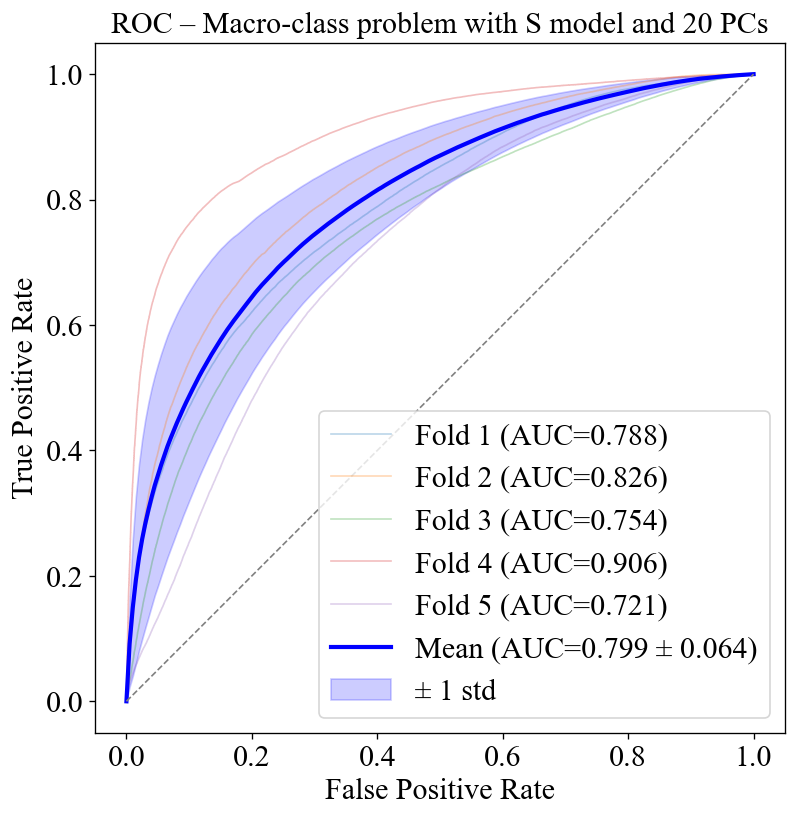
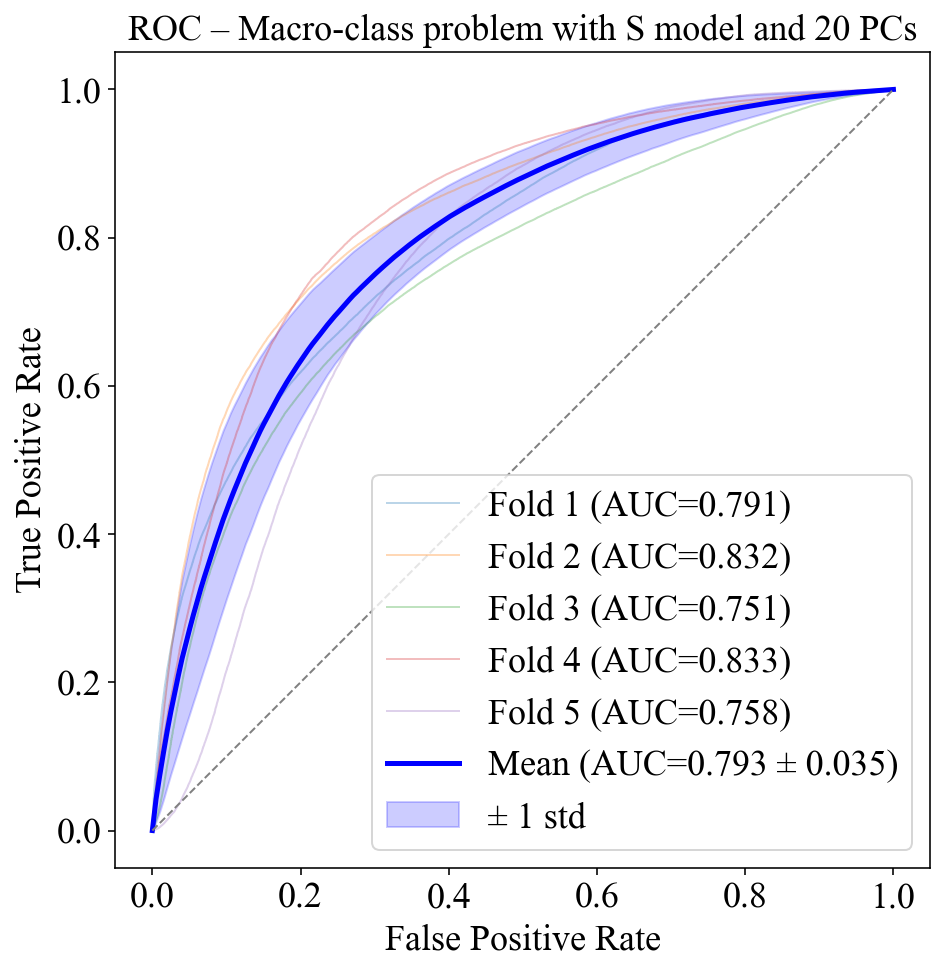
Ch4, Ch5: excluded necrosis from dataset and reviewed the results

diff --git a/Chapters/Ch_5.tex b/Chapters/Ch_5.tex
@@ -101,13 +101,13 @@ The final ANN models were trained for the two binary tasks reported in \Cref{tab
         \hline
         \textbf{Experiment} & \textbf{Positive class} & \textbf{Negative class} \\
         \hline
-        \begin{tabular}[t]{@{}c@{}}Tumour-related class\\vs\\non-tumour\end{tabular} & \begin{tabular}[t]{@{}c@{}}Tumour (2)\\Tumour with necrosis (20)\end{tabular} & \begin{tabular}[t]{@{}c@{}}Valid non-tumour classes\\(0, 3, 4, 5, 6, 8, 10, 19, 23)\end{tabular} \\
+        \begin{tabular}[t]{@{}c@{}}Tumour-related class\\vs\\non-tumour\end{tabular} & \begin{tabular}[t]{@{}c@{}}Tumour (2)\\Tumour with necrosis (20)\end{tabular} & \begin{tabular}[t]{@{}c@{}}Valid non-tumour classes\\(3, 4, 5, 6, 8, 10, 19, 23)\end{tabular} \\
         \hline
         \begin{tabular}[t]{@{}c@{}}Tumour-related class\\vs\\stroma\end{tabular} & \begin{tabular}[t]{@{}c@{}}Tumour (2)\\Tumour with necrosis (20)\end{tabular} & Tumour stroma (6) \\
         \hline
     \end{tabularx}
     \renewcommand{\arraystretch}{1}
-    \caption{Binary classification experiments evaluated in the final analysis.}
+    \caption{Binary classification experiments evaluated in the final analysis. See \cref{tab:label-distribution} for label correspondences.}
     \label{tab:final_binary_experiments}
 \end{table}
 
@@ -178,7 +178,7 @@ The decision threshold used to convert the predicted probability into a binary l
 
 The configurations chosen for the two approaches, listed in \cref{tab:selected_hyperparameters}, were further analyzed to assess their effectiveness.
 
-The confusion matrices and ROC curves, explained in \cref{sec:evaluation_metrics}, showed good results for both problems. The macro-class approach performed slightly worse than the single-class one, especially in non-tumoral classification (true negative rates equaled 0.71 and 0.75 respectively). This is a direct consequence of the internal heterogeneity of the healthy class. The ROC curves showed symmetrical behavior with respect to the TPR and FNR, with high variability depending on the validation fold composition. Mean AUC across 5 folds achieved scores of $\text{AUC} = 0.799\pm0.072$, relative standard deviation $\sigma_{relative} = 9\%$, for the macro-class problem (\cref{fig:results_S20_macroclass}), and $\text{AUC} = 0.836\pm0.043$, $\sigma_{relative} = 5.1\%$, for the single-class problem (\cref{fig:results_S10_singleclass}). The difference in mean AUC and standard deviation once again indicates that, on average, the macro-class approach is more difficult and less consistent than the single-class one.
+The confusion matrices and ROC curves, explained in \cref{sec:evaluation_metrics}, showed good results for both problems. The macro-class approach performed slightly worse than the single-class one, especially in non-tumoral classification, with true negative rates equaled 0.71 and 0.75 respectively, while tumoral recall achieved 0.74 in the first problem and 0.76 for the second. The imbalance in TNR is a direct consequence of the internal heterogeneity of the healthy class. The ROC curves showed symmetrical behavior with respect to the TPR and FNR, with high variability depending on the validation fold composition. Mean AUC across 5 folds achieved scores of $\text{AUC} = 0.793\pm0.035$, relative standard deviation $\sigma_{relative} = 4.4\%$, for the macro-class problem (\cref{fig:results_S20_macroclass}), and $\text{AUC} = 0.836\pm0.043$, $\sigma_{relative} = 5.1\%$, for the single-class problem (\cref{fig:results_S10_singleclass}). The difference in mean AUC once again indicates that, on average, the macro-class approach is more difficult than the single-class one.
 
 
 \begin{figure}[H]
@@ -256,12 +256,10 @@ For a more critical analysis, it is important to understand whether errors are e
 
 \Cref{fig:sample_f1_comparison} shows the \textit{F1-score}, which combines \textit{precision} and \textit{recall}, calculated by partitioning the test set pixels by sample and comparing model predictions with the actual labels for each group. A high \textit{F1} means that the model recognises the \textit{tumour} class well within the same sample. On the contrary, a low value indicates that the specific sample is difficult and the prediction contains many \textit{false positives}, \textit{false negatives}, or both.
 
-First of all, the result of this comparison confirms what has already been observed in \Cref{sec:aggregated_classification_results}, namely that the macro-class problem is more complicated and unstable because it introduces greater intra-class heterogeneity, with an average \textit{F1} per sample of \(0.704\), compared with \(0.792\) for the single-class problem.
+First of all, the result of this comparison confirms what has already been observed in \Cref{sec:aggregated_classification_results}, namely that the macro-class problem is more complicated and unstable because it introduces greater intra-class heterogeneity, with an average \textit{F1} per sample of \(0.713\), compared with \(0.792\) for the single-class problem.
 Some of the most difficult classified samples in the \textit{tumour} vs \textit{healthy} experiment improve in the \textit{tumour} vs \textit{stroma} problem. The most obvious case is \(3535\_019\) which goes from \textit{F1} approximately \(0.43\) to about \(0.77\) between the two experiments. This supports the thesis that the difficulty in predictions is closely linked to the definition of the negative class.
 
-VALORI DA CONTROLLARE
-
-Other cases, instead, show critical trends in both experiments, as in \(3439\_009\). The sample-specific difficulty could be related to spectral differences typical of an individual patient or specimen. In these cases, the model fails to generalise adequately due to the high biological variance found.
+Other cases, instead, show poor performace in both experiments, as in \(3439\_009\). The sample-specific difficulty could be related to spectral differences typical of an individual patient or specimen. In these cases, the model fails to generalise adequately due to the high biological variance found.
 Furthermore, it is not excluded that, in some cases, a very poor performance on a sample may depend on the quality of the annotations.
 
 
@@ -292,6 +290,7 @@ The comparison of raw and smoothed results for both binary problems, presented i
 \definecolor{pastelblue3}{RGB}{211,228,244}
 \definecolor{pastelblue4}{RGB}{190,215,237}
 \definecolor{pastelblue5}{RGB}{168,201,229}
+\definecolor{pastelblue6}{RGB}{145,186,220}
 
 \begin{table}[htbp]
     \centering
@@ -303,24 +302,28 @@ The comparison of raw and smoothed results for both binary problems, presented i
         Kernel size & \textit{AUC} & \textit{TPR} & \textit{TNR} & \textit{AUC} & \textit{TPR} & \textit{TNR} \\
         \hline
         No smoothing
-        & \cellcolor{pastelblue1}0.799 & \cellcolor{pastelblue1}0.738 & \cellcolor{pastelblue1}0.712
+        & \cellcolor{pastelblue1}0.793 & \cellcolor{pastelblue1}0.741 & \cellcolor{pastelblue1}0.711
         & \cellcolor{pastelblue1}0.836 & \cellcolor{pastelblue1}0.761 & \cellcolor{pastelblue1}0.749 \\
 
         \(3 \times 3\)
-        & \cellcolor{pastelblue2}0.851 & \cellcolor{pastelblue2}0.789 & \cellcolor{pastelblue3}0.758
+        & \cellcolor{pastelblue2}0.848 & \cellcolor{pastelblue2}0.794 & \cellcolor{pastelblue3}0.756
         & \cellcolor{pastelblue2}0.892 & \cellcolor{pastelblue2}0.811 & \cellcolor{pastelblue4}0.787 \\
 
         \(5 \times 5\)
-        & \cellcolor{pastelblue3}0.862 & \cellcolor{pastelblue3}0.797 & \cellcolor{pastelblue5}0.770
-        & \cellcolor{pastelblue4}0.904 & \cellcolor{pastelblue3}0.822 & \cellcolor{pastelblue5}0.795 \\
+        & \cellcolor{pastelblue3}0.859 & \cellcolor{pastelblue3}0.803 & \cellcolor{pastelblue5}0.768
+        & \cellcolor{pastelblue4}0.904 & \cellcolor{pastelblue3}0.822 & \cellcolor{pastelblue6}0.795 \\
+
+        \(7 \times 7\)
+        & \cellcolor{pastelblue5}0.863 & \cellcolor{pastelblue5}0.806 & \cellcolor{pastelblue6}0.769
+        & \cellcolor{pastelblue6}0.907 & \cellcolor{pastelblue4}0.827 & \cellcolor{pastelblue5}0.792 \\
 
         \(10 \times 10\)
-        & \cellcolor{pastelblue5}0.866 & \cellcolor{pastelblue5}0.801 & \cellcolor{pastelblue4}0.768
-        & \cellcolor{pastelblue5}0.907 & \cellcolor{pastelblue4}0.831 & \cellcolor{pastelblue3}0.776 \\
+        & \cellcolor{pastelblue6}0.864 & \cellcolor{pastelblue6}0.807 & \cellcolor{pastelblue4}0.765
+        & \cellcolor{pastelblue6}0.907 & \cellcolor{pastelblue5}0.831 & \cellcolor{pastelblue3}0.776 \\
 
         \(15 \times 15\)
-        & \cellcolor{pastelblue4}0.864 & \cellcolor{pastelblue5}0.801 & \cellcolor{pastelblue2}0.756
-        & \cellcolor{pastelblue3}0.899 & \cellcolor{pastelblue5}0.833 & \cellcolor{pastelblue1}0.749 \\
+        & \cellcolor{pastelblue4}0.862 & \cellcolor{pastelblue4}0.805 & \cellcolor{pastelblue2}0.755
+        & \cellcolor{pastelblue3}0.899 & \cellcolor{pastelblue6}0.833 & \cellcolor{pastelblue1}0.749 \\
         \hline
     \end{tabular}
     \caption{Results of spatial post-processing with different kernel sizes on \textit{AUC}, \textit{TPR} and \textit{TNR}.}
@@ -328,8 +331,8 @@ The comparison of raw and smoothed results for both binary problems, presented i
 \end{table}
 
 
-More specifically, a result of particular merit is attributed to the \(5 \times 5\) filter. This leads to clearly better predictions than smaller filters, in terms of global metrics.
-Larger kernels tend to increase \textit{tumour} \textit{recall}, which could be desirable based on what was discussed earlier, but at the same time they lead to an overly aggressive imbalance in the confusion matrix by increasing \textit{false positives} and thus reducing the overall reliability of the classifier. This is why, although the 10x10 filter shows a higher \textit{AUC}, it is not the best compromise when evaluated against the \textit{TNR} and would represent an unwise choice.
+More specifically, a result of particular merit is interest is the one of the \(7 \times 7\) filter. This leads to clearly better predictions than smaller filters, in terms of global metrics.
+Larger kernels tend to increase \textit{tumour} \textit{recall}, which could be desirable based on what was discussed earlier, but at the same time they lead to an overly aggressive imbalance in the confusion matrix by increasing \textit{false positives} and thus reducing TNR and the overall reliability of the classifier. This is why, although the 10x10 filter shows a higher \textit{AUC}, it is not the best compromise when evaluated against the \textit{TNR} and would represent an unwise choice.
 The results of applying a filter as large as \(15 \times 15\) make clear that the benefits of smoothing are limited, and that excessively increasing the filter size leads to deterioration, "spreading" the \textit{tumour} class onto the healthy one.
 
 \begin{figure}[H]
@@ -341,11 +344,11 @@ The results of applying a filter as large as \(15 \times 15\) make clear that th
     \subfloat[\textit{tumour} vs. \textit{tumour stroma}.\label{fig:confusion_matrix_tumour_stroma_smoothed}]{
         \includegraphics[width=0.45\textwidth]{Images/images_ch_5/tumor_stroma_smoothed.png}
     }
-    \caption{Confusion matrices obtained after spatial post-processing with the \(5 \times 5\) smoothing filter. Compared to the raw results shown in \Cref{fig:results_S20_macroclass,fig:results_S10_singleclass} the \textit{TPR} and \textit{TNR} rise.}
+    \caption{Confusion matrices obtained after spatial post-processing with the \(7 \times 7\) smoothing filter. Compared to the raw results shown in \Cref{fig:results_S20_macroclass,fig:results_S10_singleclass} the \textit{TPR} and \textit{TNR} rise.}
     \label{fig:confusion_matrices_smoothed}
 \end{figure}
 
-Observing the smoothed prediction maps and comparing them with the raw ones, as shown in \Cref{fig:prediction_maps_raw_smoothed_tumour_stroma}, it is clear that the \(5 \times 5\) filter reduces isolated errors in favour of greater spatial consistency and does not excessively propagate the areas that produced incorrect predictions, leading to the optimal result.
+Observing the smoothed prediction maps and comparing them with the raw ones, as shown in \Cref{fig:prediction_maps_raw_smoothed_tumour_stroma}, it is clear that the \(7 \times 7\) filter reduces isolated errors in favour of greater spatial consistency and does not excessively propagate the areas that produced incorrect predictions, leading to the optimal result.
 
 \begin{figure}[H]
     \centering
@@ -356,7 +359,7 @@ Observing the smoothed prediction maps and comparing them with the raw ones, as 
     \vspace{0.5em}
     
     \subfloat[Prediction map after \(5 \times 5\) smoothing.\label{fig:prediction_map_smoothed_tumour_stroma}]{
-        \includegraphics[width=0.90\textwidth]{Images/images_ch_5/sample_3525_028_map_Map_1_5x5_smoothing.png}
+        \includegraphics[width=0.90\textwidth]{Images/images_ch_5/sample_3525_028_map_Map_1_7x7_smoothing.png}
     }
     \caption{Comparison between raw and smoothed prediction maps for the \textit{tumour} vs. \textit{healthy} experiment.}
     \label{fig:prediction_maps_raw_smoothed_tumour_stroma}

diff --git a/Chapters/Ch_4_new.tex b/Chapters/Ch_4_new.tex
@@ -21,7 +21,7 @@ The spectra, acquired over a broader Raman-shift range, have been stripped of th
 The steps described above are crucial because a machine learning process requires high-quality data: noise, incorrect labels, or technical artefacts compromise the reliability of the model, which relies only on the inputs provided to it.
 This analysis starts with Raman data already organised and pre-processed for computational exploration and characterisation. 
 
-\section{Dataset: origin and structure}
+\section{Dataset structure}
 \label{sec:origin-structure}
 
 The analyzed biological tissue was taken from 25 \textit{samples}, one from each of 25 different patients.
@@ -108,7 +108,7 @@ Biological tissues were divided into 13 classes, the most represented of which w
     \label{tab:label-distribution}
 \end{table}
 
-Among the classes, two do not correspond to any biological tissue and were removed before further analysis: the \textit{unlabeled/transparent} pixels correspond to holes in the tissue (detection of the glass substrate); the \textit{artifacts} from the H\&E staining. Their average spectra also differ from the tissue classes, mainly in the fingerprint region (\Cref{fig:spectra_comparison_discarded}). Keeping them would bias the model towards features unrelated to the tumoral/healthy distinction, so they were excluded from the dataset.
+Among the classes, two do not correspond to any biological tissue and were removed before further analysis: the \textit{unlabeled/transparent} pixels correspond to holes in the tissue (detection of the glass substrate); the \textit{artifacts} from the H\&E staining. Their average spectra also differ from the tissue classes, mainly in the fingerprint region (\cref{fig:spectra_comparison_discarded}). Keeping them would bias the model towards features unrelated to the tumoral/healthy distinction, so they were excluded from the dataset. Purely \textit{necrotic (0)} tissue was also discarded from the dataset since it's average spectrum noticeably differed from the other tissue (\cref{fig:spectra_comparison_discarded}), due to biological degradation. This category was not classifiable as healthy, and including it as tumoral would skew the results.
 
 \begin{figure}[H]
     \centering
@@ -178,7 +178,7 @@ The choice had to account for the following criteria:
 
 The first approach is the one with the most clinical relevance. Successful classification of tumoral areas against general healthy tissue would be the most versatile result possible, with further single-class distinction to be performed later depending on need. The balance between the two classes would also be close to 50/50, allowing to use the whole dataset for training and testing of the ANN. This approach presents however multiple critical points.
 The \textit{healthy} macro-class, including numerous tissue types, is very heterogeneous (high intra-class variance), leading to poor feature individuation or bias towards the major class.
-The \textit{tumor} macro-class, which always includes the \textit{tumor (2)} label, could also comprise the \textit{tumor with necrosis (20)} and the \textit{necrosis (0)} labels, since necrotic tissue is expected to be adjacent to tumors; necrotic tissue, however, shows high variance (\Cref{fig:spectra_comparison_discarded}) due to structural degradation of the cells, leading to problems similar to the ones of the \textit{healthy} macro-class.
+The \textit{tumor} macro-class includes the \textit{tumor (2)} and \textit{tumor with necrosis (20)} , since necrotic tissue is expected to be adjacent to tumors and, being mixed with tumor, not to affect affect the average spectrum noticeably (pure \textit{necrosis (0)} was previously deleted from the dataset);
 
 
 The second approach, using isolated classes, will reduce intra-class variance and allow the model to learn the class-specific patterns, thus improving performance.
